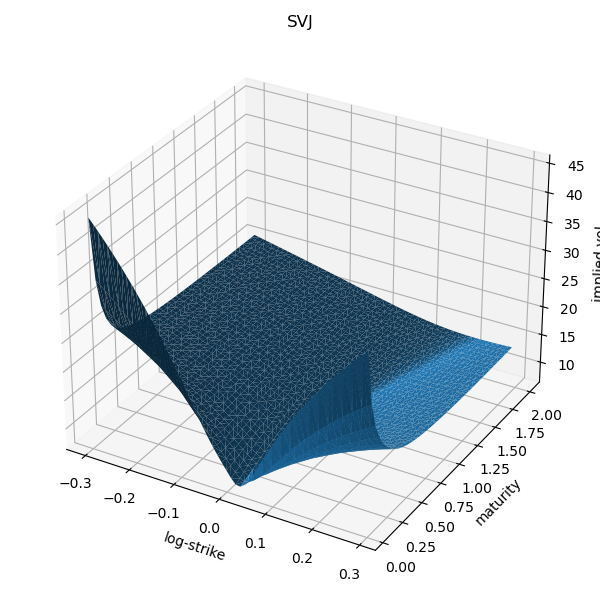
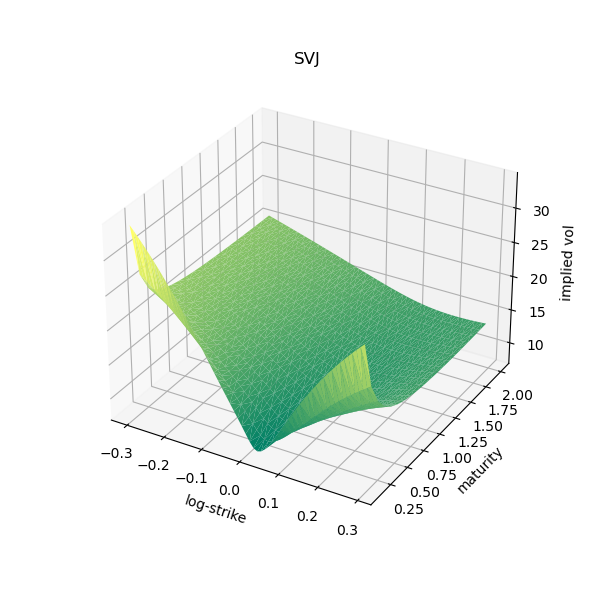
beautify IVS plots

diff --git a/python-volcal/main.py b/python-volcal/main.py
@@ -1197,7 +1197,7 @@ def test_SpeedProfile():
 #### Plot Implied Vol Surface ##################################################
 
 def test_PlotImpliedVolSurface():
-    run = 2
+    run = [2]
 
     models = {
         "Merton": {"CF": MertonJumpCharFunc,      "params": paramsMERkey},
@@ -1211,21 +1211,20 @@ def test_PlotImpliedVolSurface():
     }
 
     k = np.arange(-0.3,0.3,0.01)
-    T = np.arange(0.05,2.05,0.05)
+    T = np.arange(0.1,2.1,0.1)
     X,Y = np.meshgrid(k,T)
-    IV = dict()
 
-    if run == 1:
+    if 1 in run:
         for model in models.keys():
             cal = pd.read_csv(dataFolder+f"Calibration/test_{model}CalibrationIv.csv")
             params = cal[models[model]["params"]].iloc[0].to_dict()
-            impVolFunc = CharFuncImpliedVol(models[model]["CF"](**params),optionType="call",formulaType="COS")
+            impVolFunc = CharFuncImpliedVol(models[model]["CF"](**params),optionType="call",formulaType="COS",N=6000)
             Z = np.array([impVolFunc(k,t) for t in T])
             Z[Z<1e-8] = np.nan
             df = pd.DataFrame(np.array([X,Y,Z]).reshape(3,-1).T,columns=["Log-strike","Texp","IV"])
             df.to_csv(dataFolder+f"Implied Vol Surface/IVS_{model}.csv",index=False)
 
-    else:
+    elif 2 in run:
         for model in models.keys():
             df = pd.read_csv(dataFolder+f"Implied Vol Surface/IVS_{model}.csv")
             PlotImpliedVolSurface(df,dataFolder+f"Implied Vol Surface/IVS_{model}.png",model)

diff --git a/python-volcal/pricer.py b/python-volcal/pricer.py
@@ -1109,13 +1109,12 @@ def PlotImpliedVolSurface(df, figname=None, model=None):
 
     fig = plt.figure(figsize=(6,6))
     ax = plt.axes(projection="3d")
-    surf = ax.plot_trisurf(logStrike,maturity,impVol)
+    surf = ax.plot_trisurf(logStrike,maturity,impVol,cmap='summer')
     ax.set_xlabel("log-strike")
     ax.set_ylabel("maturity")
     ax.set_zlabel("implied vol")
     if model: ax.set_title(model)
 
-    fig.tight_layout()
     plt.savefig(figname)
     plt.close()
 
